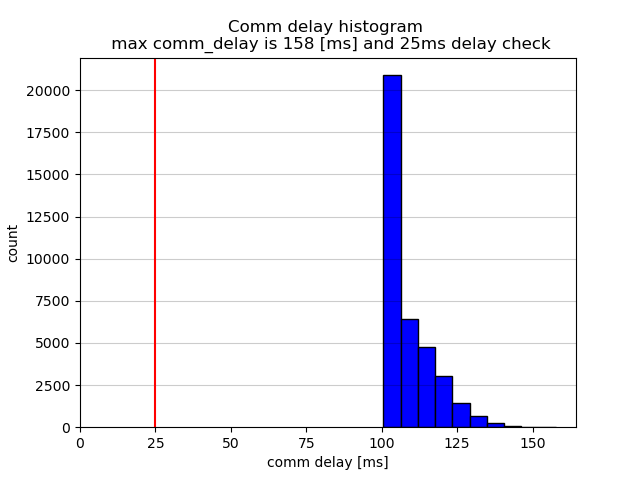
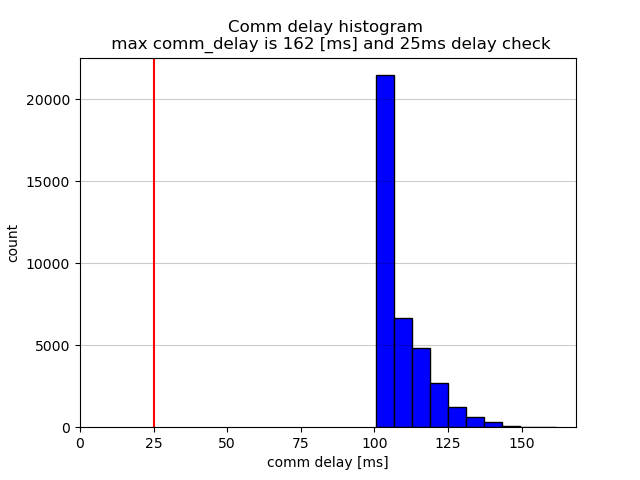
minor

diff --git a/mader/other/sim/missed_msgs_count.py b/mader/other/sim/missed_msgs_count.py
@@ -21,12 +21,7 @@ import glob
 
 if __name__ == '__main__':
 
-    # rosbag name
-
-    # Dont use ~ like this
-    cd = "50" # [ms] communication delay
-
-    is_oldmader = False # change here
+    is_oldmader = True # change here
 
     n_agents = 10
 
@@ -56,8 +51,8 @@ if __name__ == '__main__':
         for dc in dc_list:
 
 
-            dc_in_ms = dc/1000;
-            cd_in_ms = cd/1000;
+            dc_in_s = dc/1000;
+            cd_in_s = cd/1000;
 
             if dc == 50.8:
                 str_dc = "51_8"
@@ -112,31 +107,37 @@ if __name__ == '__main__':
                 missed_msgs_cnt = 0
                 ave = 0
 
-                for i in range(1,num_of_agents+1):
+                for i in range(1,n_agents+1):
                     if i < 10:
                         log_data = b.message_by_topic("/SQ0" + str(i) + "s/mader/comm_delay")
                     else:
                         log_data = b.message_by_topic("/SQ" + str(i) + "s/mader/comm_delay")
 
+                    # print(log_data)
                     try:
                         log = pd.read_csv(log_data)
 
                         for j in range(len(log.comm_delay)):
-                            comm_delay.append(log.comm_delay[j])
                             msgs_cnt = msgs_cnt + 1
-                            if log.comm_delay > dc:
+                            # print(log.comm_delay[j])
+                            if log.comm_delay[j] > dc_in_s:
                                 missed_msgs_cnt = missed_msgs_cnt + 1
                     except:
                         pass
 
-                ave = missed_msgs_cnt/msgs_cnt
-                ave_list.append(ave)
-                # os.system('echo "simulation '+sim_id+': missed_msgs_cnt'+ave_missed_msgs_cnt+'" >> '+source_dir+'/missed_msgs_cnt.txt')
+                try:
+                    ave = missed_msgs_cnt/msgs_cnt
+                    ave_list.append(ave)
+                    # os.system('echo "simulation '+sim_id+': missed_msgs_cnt'+ave_missed_msgs_cnt+'" >> '+source_dir+'/missed_msgs_cnt.txt')
+                except:
+                    pass
 
-            ave_missed_per_dc = sum(ave_list)/len(ave_list)
-
-            os.system('echo "'+source_dir+'" >> /home/kota/data/missed_msgs_cnt.txt')
-            os.system('echo " missed/total '+str(round(ave_missed_per_dc*100,2))+'%" >> /home/kota/data/missed_msgs_cnt.txt')
-            os.system('echo "------------------------------------------------------------" >> /home/kota/data/missed_msgs_cnt.txt')
+            try:      
+                ave_missed_per_dc = sum(ave_list)/len(ave_list)
+                os.system('echo "'+source_dir+'" >> /home/kota/data/missed_msgs_cnt.txt')
+                os.system('echo " missed/total '+str(round(ave_missed_per_dc*100,2))+'%" >> /home/kota/data/missed_msgs_cnt.txt')
+                os.system('echo "------------------------------------------------------------" >> /home/kota/data/missed_msgs_cnt.txt')
+            except:
+                pass
             
             is_oldmader = False

diff --git a/mader/scripts/run_many_sims_multi_agent.py b/mader/scripts/run_many_sims_multi_agent.py
@@ -38,7 +38,7 @@ if __name__ == '__main__':
 
     # parameters
     is_oldmader=True
-    num_of_sims=5
+    num_of_sims=110
     num_of_agents=10
     how_long_to_wait = 20 #[s]
     if is_oldmader:
